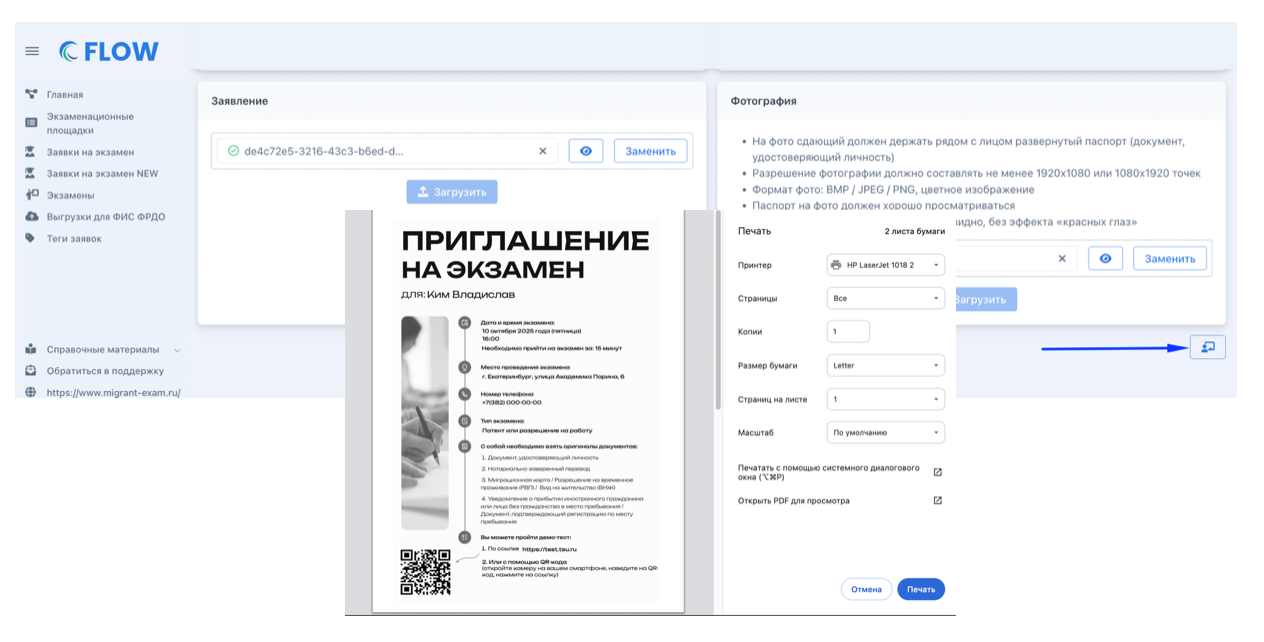
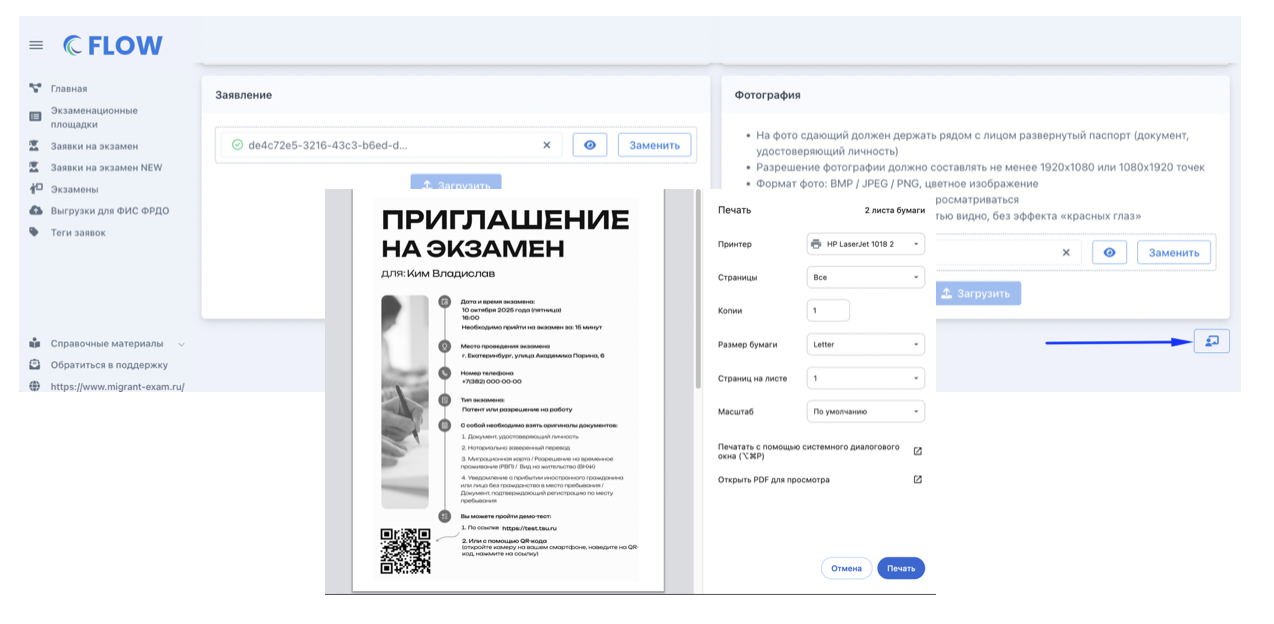
Update 2 files
- flow.-rabota-s-dokumentami/dobavlenie-zayavki-vruchnuyu/_index.md
   - flow.-rabota-s-dokumentami/dobavlenie-zayavki-vruchnuyu/dobavlenie-zayavki-vruchnuyu-9.png

diff --git a/flow.-rabota-s-dokumentami/dobavlenie-zayavki-vruchnuyu/_index.md b/flow.-rabota-s-dokumentami/dobavlenie-zayavki-vruchnuyu/_index.md
@@ -85,9 +85,7 @@ title: Добавление заявки вручную
 
 При создании или редактировании заявки в правом нижнем углу страницы
 
-![](./dobavlenie-zayavki-vruchnuyu-9.png){width=1264px height=642px}
-
-
+![](./dobavlenie-zayavki-vruchnuyu-9.png){width=1274px height=624px}
 
 [/tab]
 
